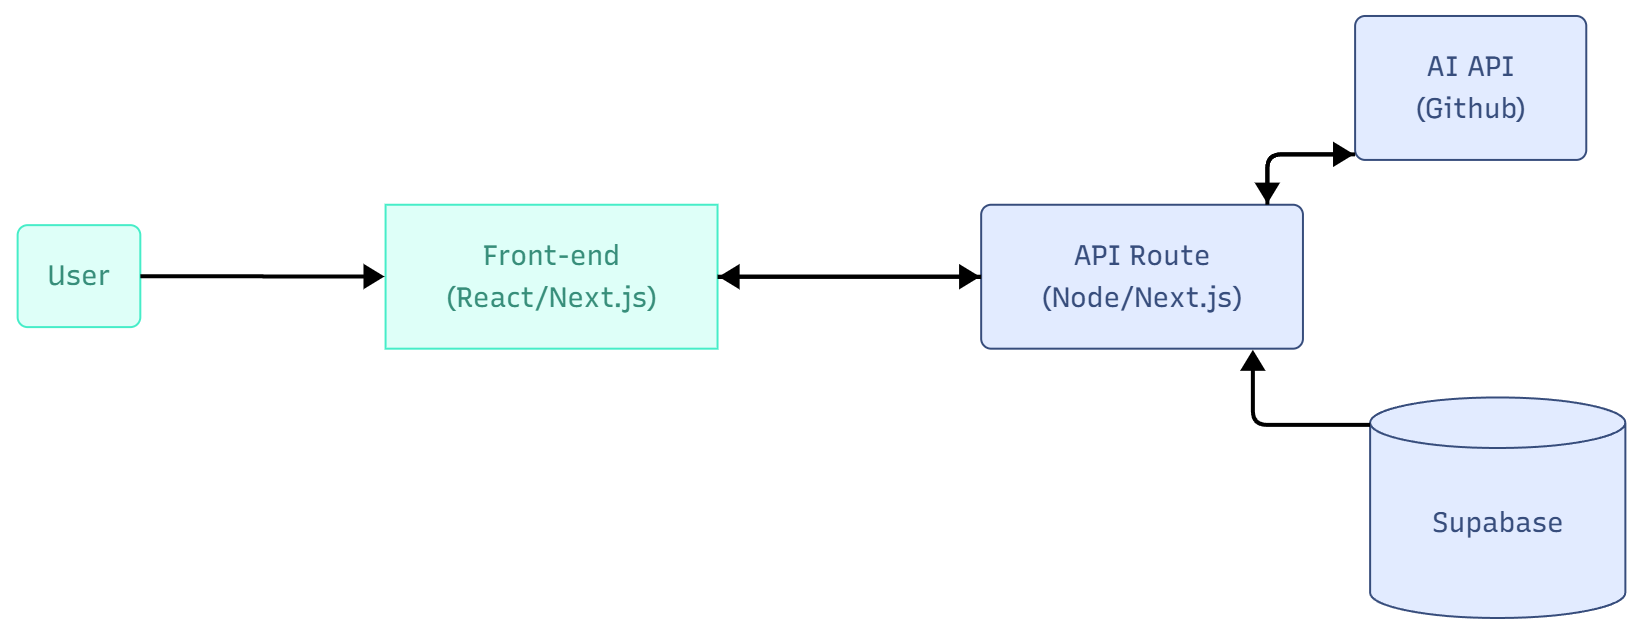
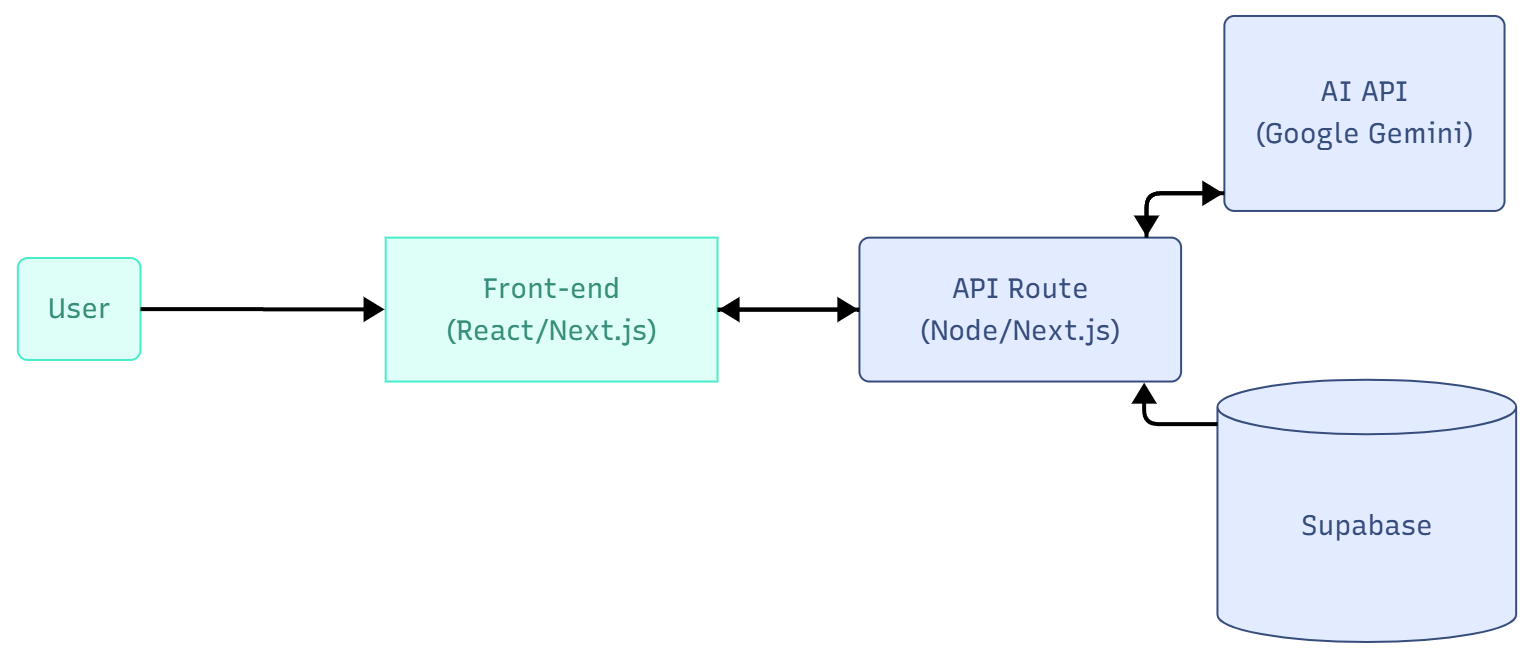
fix: project readme

Changed region(s): [[0.0, 0.0, 1.0, 0.989]]

diff --git a/README.md b/README.md
@@ -1,5 +1,5 @@
 
-# 📝 SmartNote AI
+# SmartNote AI 📝
 
 A modern, full-stack note management application with intelligent AI-powered organization and beautiful user experience.
 
@@ -7,100 +7,129 @@ A modern, full-stack note management application with intelligent AI-powered org
 
 ## About the Project
 
-**SmartNote AI** represents the perfect blend of modern web development and artificial intelligence. This sophisticated note-taking application doesn't just store your thoughts—it understands them. Using advanced AI analysis, SmartNote automatically categorizes your content, generates meaningful summaries, and provides intelligent insights that transform how you organize and retrieve information.
+**SmartNote AI** is a full-stack note-taking application. Rather than just storing text, the application leverages Google Gemini AI to intelligently analyze content, automatically generating contextual tags and meaningful summaries.
 
-Built with the latest web technologies and a focus on user experience, SmartNote AI demonstrates enterprise-level development practices while maintaining an intuitive, responsive interface that works seamlessly across all devices.
+## 📋 Features
 
-## Features
+### Note Management
+- **Full CRUD Operations** - Create, view, edit, and delete notes with real-time updates
+- **Character Limits** - Title (60 chars) and body (1,500 chars) with live counters
+- **Smart Organization** - Notes stored with title, body, AI tags, summaries, and timestamps
+- **Automatic Timestamps** - ISO string timestamps with relative display ("2 hours ago")
+- **Responsive Design** - Mobile layout supporting xs, sm, md, lg breakpoints
 
-### 📋 Complete Note Management
-- **Full CRUD Operations** - Create, view, edit and delete notes seamlessly
-- **Rich Text Support** - Preserve line breaks and formatting in note content
-- **Smart Organization** - Notes display with title, body, tags, and timestamps
-- **Date Management** - Automatic timestamps with relative time display ("2 hours ago")
-- **Responsive Design** - Works perfectly on desktop, tablet, and mobile devices
-
-### Advanced AI Integration
-- **Intelligent Tag Generation** - AI analyzes content and suggests 3-4 relevant tags
-- **Smart Summary Creation** - AI generates insightful summaries focusing on purpose and context
-- **Flexible AI Control** - Toggle AI features on/off when creating notes
-- **Post-Creation AI** - Generate AI tags and summaries for existing notes
-- **Summary Management** - Delete AI summaries while keeping manual content
-- **Context-Aware Analysis** - AI provides meaningful insights, not just content repetition
+### AI Integration
+- **Gemini-Powered Analysis** - Google Gemini 2.5 Flash generates 3-4 contextual tags
+- **Context-Aware Summaries** - AI produces summaries focusing on purpose, not repetition
+- **Toggle AI On/Off** - User control for when to apply AI processing during note creation
+- **Post-Creation AI** - Re-generate tags/summaries for existing notes with one click
+- **Lazy Generation** - AI icon on cards triggers generation without page reload
 
 ### Enhanced Search & Navigation
-- **Real-Time Search** - Instant filtering as you type across titles, content, tags, and summaries
-- **Search Results Counter** - See exactly how many notes match your query
-- **Tag-Based Filtering** - Click tags to filter notes by category
-- **Scroll to Top** - Smooth scroll button for easy navigation on long lists
-- **Visual Feedback** - Clear "no results" states and loading indicators
+- **Real-Time Search** - Instant multi-field filtering across title, body, tags, summary and date as you type
+- **Search Results Counter** - Visual feedback showing exact match count
+- **Scroll to Top** - Smooth navigation button for browsing long lists
+- **No Results UX** - Clear messaging when search yields no matches
 
 ### Modern User Experience
-- **Beautiful Animations** - Smooth card animations and hover effects
-- **Professional Modals** - Clean, Apple-like design for edit and delete actions
-- **Loading States** - Professional loading indicators for all async operations
-- **iOS-Style Toggles** - Modern switch controls for AI features
-- **Custom Skeletons** - Realistic loading placeholders that match actual content
-- **SVG Underlines** - Stylish visual elements in the header design
-
-### Robust Data Management
-- **Persistent Storage** - All data securely stored in Supabase PostgreSQL
-- **Real-Time Updates** - Changes reflect immediately without page refresh
-- **Data Integrity** - Comprehensive error handling and validation
-- **Type Safety** - Full TypeScript integration for reliable data flow
+- **Smooth Animations** - Card entrance animations with staggered timing
+- **Modals** - Modals to edit and delete notes
+- **Loading Skeletons** - Realistic placeholders during async operations
+- **Toast Notifications** - User feedback for all actions (success, error, warning messages)
+- **Material-UI Components** - Polished UI with responsive sx prop styling
 
 ## 🏗 Architecture
 
-The project follows a modern full-stack architecture:
-
-1. **Frontend (React/Next.js)** 
-2. **API Routes (Next.js)** 
-3. **Supabase (PostgreSQL)** 
-4. **AI API (Gemini - GenAI)**
-
-![System Architecture](./src/assets/note-diagram.png)
-
-### Data Flow
+### System Design
 
 ```
-User → Frontend → API Route → Supabase (saves note)
-                      ↓
-                 AI API (analyzes text)
-                      ↓
-                Frontend ← (returns suggestions)
+┌─────────────────────────────────────────────────────────────┐
+│  Frontend (React 19 + Next.js 15)                           │
+│  ┌──────────────────────────────────────────────────────┐   │
+│  │ NotesContext (React Context API)                     │   │
+│  │ - Centralized state (notes, modals, loading, toast)  │   │
+│  └──────────────────────────────────────────────────────┘   │
+│  ┌──────────────────────────────────────────────────────┐   │
+│  │ 6 Custom Hooks (Business Logic)                      │   │
+│  │ - useNotesLoading, useNoteCreation, etc.             │   │
+│  └──────────────────────────────────────────────────────┘   │
+│  ┌──────────────────────────────────────────────────────┐   │
+│  │ Components (Presentation)                            │   │
+│  │ - CreateNoteForm, NoteCard, SearchBar, etc.          │   │
+│  └──────────────────────────────────────────────────────┘   │
+└─────────────────────────────────────────────────────────────┘
+                            ↓ (fetch/POST/PUT/DELETE)
+┌─────────────────────────────────────────────────────────────┐
+│  API Routes (Next.js Serverless Functions)                  │
+│  - /api/notes (GET list, POST create)                       │
+│  - /api/notes/[id] (PUT update, DELETE)                     │
+│  - /api/ai/generate-content (POST AI analysis)              │
+└─────────────────────────────────────────────────────────────┘
+                            ↓ (Supabase client)
+┌─────────────────────────────────────────────────────────────┐
+│  Database (Supabase PostgreSQL)                             │
+│  - notes table (id, title, body, tags, summary, updatedAt)  │
+└─────────────────────────────────────────────────────────────┘
+                            ↓ (for AI operations)
+┌─────────────────────────────────────────────────────────────┐
+│  Google Gemini 2.5 Flash API (@google/genai)                │
+│  - Analyzes content, generates tags & summaries             │
+└─────────────────────────────────────────────────────────────┘
 ```
+
+### 🎲 Data Flow
+
+**Creating a Note with AI:**
+```
+User Input → CreateNoteForm → useNoteCreation hook 
+  → POST /api/notes → Supabase saves note
+  → (if aiEnabled) POST /api/ai/generate-content → Gemini API
+  → PUT /api/notes/[id] with tags/summary → Supabase updates
+  → UI updates via context → Toast notification
+```
+
+### Key Architectural Decisions
+
+| Decision | Rationale | Trade-offs |
+|----------|-----------|-----------|
+| **Context API over Redux** | Simpler, no external deps, built-in to React | Less tooling for large apps, but sufficient here |
+| **Custom Hooks for Logic** | Business logic separated from UI, reusable | More files, but clearer responsibilities |
+| **Set\<number\> for AI loading** | Track multiple concurrent AI operations | More complex than single boolean, but accurate |
+| **AI is optional** | Progressive enhancement, graceful degradation | Added complexity for null/undefined handling |
 
 ## 🛠 Technologies
 
 ### Frontend Stack
-- **Next.js 15** - React framework with App Router and modern features
-- **React 19** - Latest UI library with enhanced performance
-- **TypeScript** - Full static typing for development reliability
-- **Material-UI (MUI)** - Professional component library with custom styling
-- **CSS-in-JS** - Styled components with responsive design principles
+- **Next.js 15** (App Router, Turbopack) - React framework with server-side rendering
+- **React 19** - Latest UI library with enhanced performance and server components
+- **TypeScript 5** - Full strict-mode static typing for type safety
+- **Material-UI 7.3** - Professional component library with responsive `sx` prop styling
+- **Emotion** - CSS-in-JS solution for dynamic styling
 
 ### Backend & Database
-- **Supabase** - Backend-as-a-Service with PostgreSQL database
-- **Next.js API Routes** - Serverless backend functions
-- **RESTful APIs** - Clean API design for data operations
+- **Supabase PostgreSQL** - Managed backend with real-time capabilities
+- **Next.js API Routes** - Serverless functions for business logic
+- **RESTful API Design** - Clean endpoints with pagination support
 
 ### AI & External Services
-- **Google Gemini AI** - Advanced natural language processing for tag and summary generation
-- **Real-time AI Processing** - Instant content analysis and suggestions
+- **Google GenAI (@google/genai v1.25)** - Gemini 2.5 Flash for intelligent content analysis
+- **Prompt Engineering** - Structured prompts for 3-4 tag generation and 212-char summaries
 
-### Development & Deployment
-- **Modern JavaScript (ES2024)** - Latest language features
-- **Component Architecture** - Modular, reusable component design
-- **Custom Hooks** - Efficient state management patterns
-- **Performance Optimization** - Loading states, animations, and smooth UX
+### Architecture & State Management
+- **React Context API** - Centralized state management without external libraries
+- **Custom React Hooks** - Domain-specific hooks for business logic separation
+
+### Development Tools
+- **Turbopack** - Fast build tool for development and production
+- **Component Architecture** - Modular, reusable components with clear responsibilities
 
 ## 🚀 How to Run
 
 ### Prerequisites
 
 - Node.js 20+
-- [Supabase](https://supabase.com) account
-- [Google AI Studio](https://aistudio.google.com/) API key for Gemini
+- [Supabase](https://supabase.com) account with PostgreSQL database
+- [Google AI Studio](https://aistudio.google.com/) API key for Gemini 2.5 Flash
 
 ### Installation
 
@@ -117,19 +146,35 @@ npm install
 
 3. Configure environment variables
 
-Create a `.env.local` file:
+Create a `.env.local` file in the root directory:
 ```env
 NEXT_PUBLIC_SUPABASE_URL=your_supabase_url
 NEXT_PUBLIC_SUPABASE_ANON_KEY=your_supabase_anon_key
 GEMINI_API_KEY=your_google_gemini_api_key
 ```
 
-4. Run the development server
+4. Set up Supabase database
+
+Create a `notes` table in your Supabase project with the following schema:
+```sql
+CREATE TABLE notes (
+  id BIGINT PRIMARY KEY GENERATED ALWAYS AS IDENTITY,
+  title VARCHAR(60) NOT NULL,
+  body VARCHAR(1500),
+  tags JSONB,
+  summary VARCHAR(212),
+  updatedAt TIMESTAMP DEFAULT NOW(),
+);
+
+CREATE INDEX idx_notes_updated_at ON notes(updatedAt DESC);
+```
+
+5. Run the development server
 ```bash
 npm run dev
 ```
 
-5. Open [http://localhost:3000](http://localhost:3000) in your browser
+6. Open [http://localhost:3000](http://localhost:3000) in your browser
 
 ## 📦 Production Build
 
@@ -138,21 +183,57 @@ npm run build
 npm start
 ```
 
-## 🎨 Future Enhancements
+## 🏆 Development Best Practices
 
-- [x] ✅ **Smart AI Summaries** - Context-aware summaries that provide insights, not repetition
-- [x] ✅ **Real-time Search** - Instant filtering across all note content
-- [x] ✅ **Professional UI Components** - Modern modals and interactive elements
-- [x] ✅ **Scroll to Top Navigation** - Smooth navigation for long note lists
-- [x] ✅ **Line Break Preservation** - Maintain formatting in note display
-- [x] ✅ **Loading State Management** - Professional loading indicators throughout
-- [ ] 🔄 **Toast Notifications** - User feedback for actions and errors
-- [ ] 📌 **Note Favoriting** - Pin important notes to the top
-- [ ] 🏷 **Advanced Tag Management** - Custom tag colors and organization
-- [ ] 📱 **Progressive Web App** - Offline functionality and mobile app experience
-- [ ] 🔍 **Advanced Search Filters** - Date ranges, tag combinations, and more
-- [ ] 📤 **Export Functionality** - Export notes as PDF, Markdown, or JSON
-- [ ] 👥 **Collaboration Features** - Share notes and collaborative editing
+This project demonstrates several development patterns worth studying:
+
+### Error Handling
+All async operations follow a consistent pattern:
+```typescript
+try {
+  // async work
+  showToast('Success message', 'success', setToast);
+} catch (error) {
+  const message = error instanceof TypeError && error.message.includes('fetch')
+    ? 'Connection error' : 'Operation failed';
+  showToast(message, 'error', setToast);
+}
+```
+
+### State Management Pattern
+Context API with custom hooks prevents prop drilling:
+```typescript
+// In hook:
+const { notes, setNotes, setToast } = useNotesContext();
+
+// In component:
+const { handleCreateNote, isCreatingNote } = useNoteCreation();
+```
+
+### Responsive Design
+Mobile approach with MUI breakpoints:
+```typescript
+sx={{
+  fontSize: { xs: '1.4rem', md: '1.5rem', lg: '1.6rem' },
+  flexDirection: { xs: 'column', lg: 'row' }
+}}
+```
+
+### AI Integration Strategy
+Prompt engineering with structured output requirements:
+- Tag constraint: 3-4 lowercase words
+- Summary limit: 212 characters
+- Format: Valid JSON only (strips markdown)
+- Fallback: Notes save without AI if generation fails
+
+## 🔧 Scripts
+
+```bash
+npm run dev         # Start development server with Turbopack (http://localhost:3000)
+npm run build       # Turbopack production build
+npm run start       # Run production server
+npm run lint        # ESLint code quality check
+```
 
 ## 📄 License
 
@@ -165,8 +246,8 @@ This project is for educational and demonstration purposes.
 🔗 **LinkedIn**: [linkedin.com/in/htonioni](https://linkedin.com/in/htonioni)  
 💻 **GitHub**: [github.com/htonioni](https://github.com/htonioni)
 
-Developed to demonstrate skills in modern full-stack development, AI integration, and software architecture best practices.
 
 ---
 
-⭐ If this project was helpful, consider giving it a star!
+<div style="text-align: center;">Developed with ♥ to demonstrate my skills in full-stack development, AI integration, and software architecture best practices.</div>
+<div style="text-align: center;">If this project was helpful, consider giving it a star!⭐</div>
